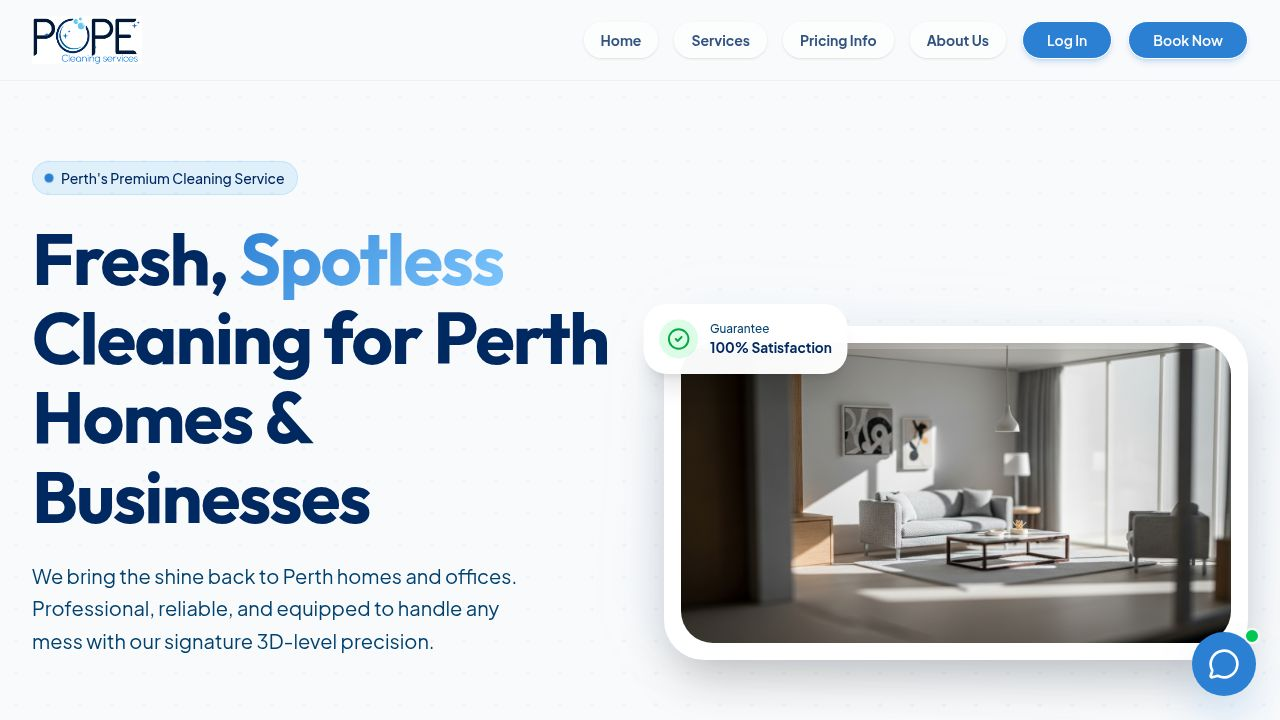
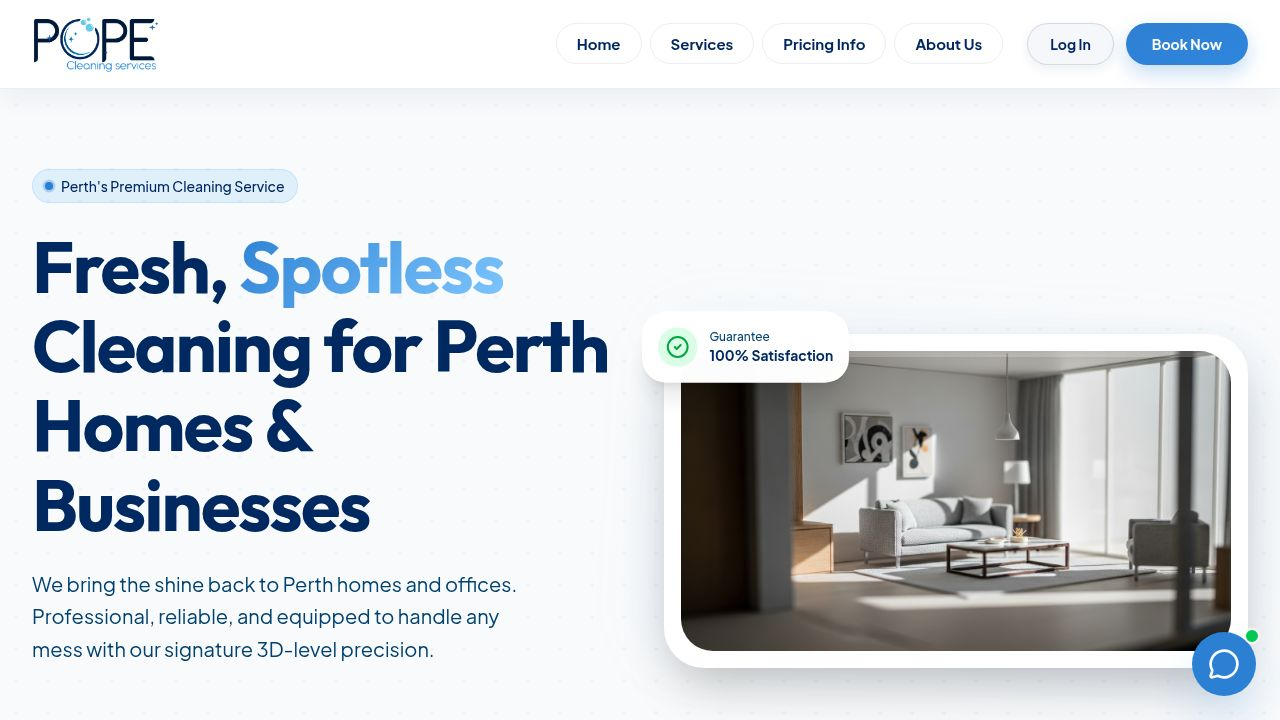
Improve the website's navigation bar with a more professional design
Update the navbar styling to include a glassmorphism effect, refine navigation links, and create a clearer hierarchy between the "Log In" and "Book Now" buttons.

Replit-Commit-Author: Agent
Replit-Commit-Session-Id: c2e9cad2-ba4b-4cb4-9b21-828524429beb
Replit-Commit-Checkpoint-Type: full_checkpoint
Replit-Commit-Event-Id: 8f09a461-0033-4815-b740-64738e7c53f6
Replit-Commit-Screenshot-Url: https://storage.googleapis.com/screenshot-production-us-central1/b344bfab-6f91-421f-94c6-48e3dd77e76f/c2e9cad2-ba4b-4cb4-9b21-828524429beb/GSzIXTW
Replit-Helium-Checkpoint-Created: true

diff --git a/client/src/components/layout/navbar.tsx b/client/src/components/layout/navbar.tsx
@@ -5,11 +5,11 @@ import { businessInfo } from "@/config/businessInfo";
 
 export function Navbar() {
   return (
-    <nav className="sticky top-0 z-50 w-full bg-background/80 backdrop-blur-md border-b border-border/50">
-      <div className="container mx-auto px-4 sm:px-6 lg:px-8 h-20 flex items-center justify-between">
+    <nav className="sticky top-0 z-50 w-full bg-[rgba(255,255,255,0.88)] backdrop-blur-[12px] border-b border-[#00275F]/[0.08] shadow-[0_8px_24px_rgba(0,39,95,0.06)]">
+      <div className="container mx-auto px-4 sm:px-6 lg:px-8 h-[88px] flex items-center justify-between">
         <Link href="/">
           <a className="flex items-center gap-2 group">
-            <div className="h-12 flex items-center justify-center transform group-hover:scale-105 transition-transform duration-300">
+            <div className="h-14 flex items-center justify-center transform group-hover:scale-105 transition-transform duration-200 ease-out">
               <img 
                 src="/assets/brand/pope-cleaning-logo.png" 
                 alt="Pope Cleaning Services logo" 
@@ -19,32 +19,45 @@ export function Navbar() {
                   (e.target as HTMLImageElement).nextElementSibling?.classList.remove('hidden');
                 }}
               />
-              <div className="hidden h-full aspect-square bg-primary flex items-center justify-center text-primary-foreground rounded-xl">
+              <div className="hidden h-full aspect-square bg-[#2F7FD1] flex items-center justify-center text-white rounded-xl">
                 <span className="font-display font-bold text-xl">P</span>
               </div>
             </div>
           </a>
         </Link>
         
-        <div className="hidden md:flex items-center gap-4">
-          <Link href="/"><a className="text-sm font-bold text-secondary/80 bg-white/40 backdrop-blur-md border border-white/60 px-4 py-2 rounded-full shadow-sm hover:shadow-md hover:bg-white hover:text-primary hover:scale-105 hover:border-primary/20 transition-all cursor-pointer">Home</a></Link>
-          <Link href="/services"><a className="text-sm font-bold text-secondary/80 bg-white/40 backdrop-blur-md border border-white/60 px-4 py-2 rounded-full shadow-sm hover:shadow-md hover:bg-white hover:text-primary hover:scale-105 hover:border-primary/20 transition-all cursor-pointer">Services</a></Link>
-          <Link href="/pricing"><a className="text-sm font-bold text-secondary/80 bg-white/40 backdrop-blur-md border border-white/60 px-4 py-2 rounded-full shadow-sm hover:shadow-md hover:bg-white hover:text-primary hover:scale-105 hover:border-primary/20 transition-all cursor-pointer">Pricing Info</a></Link>
-          <Link href="/about"><a className="text-sm font-bold text-secondary/80 bg-white/40 backdrop-blur-md border border-white/60 px-4 py-2 rounded-full shadow-sm hover:shadow-md hover:bg-white hover:text-primary hover:scale-105 hover:border-primary/20 transition-all cursor-pointer">About Us</a></Link>
-          <Link href="/auth/login">
-            <Button className="rounded-full px-6 py-2 h-auto font-semibold shadow-md shadow-primary/20 hover:shadow-primary/40 transition-all cursor-pointer">
-              Log In
-            </Button>
-          </Link>
-          <Link href="/book">
-            <Button className="rounded-full px-6 py-2 h-auto font-semibold shadow-md shadow-primary/20 hover:shadow-primary/40 transition-all cursor-pointer">
-              Book Now
-            </Button>
-          </Link>
+        <div className="hidden md:flex items-center">
+          {/* Navigation Links */}
+          <div className="flex items-center gap-2 mr-6">
+            <Link href="/"><a className="text-[#00275F] text-[15px] font-bold bg-[rgba(255,255,255,0.75)] border border-[#00275F]/[0.08] px-[20px] py-[10px] rounded-full hover:bg-[#EAF5FF] hover:text-[#00275F] hover:border-[#2F7FD1]/25 hover:-translate-y-[1px] hover:shadow-[0_4px_12px_rgba(0,39,95,0.04)] transition-all duration-200 ease-out cursor-pointer">Home</a></Link>
+            <Link href="/services"><a className="text-[#00275F] text-[15px] font-bold bg-[rgba(255,255,255,0.75)] border border-[#00275F]/[0.08] px-[20px] py-[10px] rounded-full hover:bg-[#EAF5FF] hover:text-[#00275F] hover:border-[#2F7FD1]/25 hover:-translate-y-[1px] hover:shadow-[0_4px_12px_rgba(0,39,95,0.04)] transition-all duration-200 ease-out cursor-pointer">Services</a></Link>
+            <Link href="/pricing"><a className="text-[#00275F] text-[15px] font-bold bg-[rgba(255,255,255,0.75)] border border-[#00275F]/[0.08] px-[20px] py-[10px] rounded-full hover:bg-[#EAF5FF] hover:text-[#00275F] hover:border-[#2F7FD1]/25 hover:-translate-y-[1px] hover:shadow-[0_4px_12px_rgba(0,39,95,0.04)] transition-all duration-200 ease-out cursor-pointer">Pricing Info</a></Link>
+            <Link href="/about"><a className="text-[#00275F] text-[15px] font-bold bg-[rgba(255,255,255,0.75)] border border-[#00275F]/[0.08] px-[20px] py-[10px] rounded-full hover:bg-[#EAF5FF] hover:text-[#00275F] hover:border-[#2F7FD1]/25 hover:-translate-y-[1px] hover:shadow-[0_4px_12px_rgba(0,39,95,0.04)] transition-all duration-200 ease-out cursor-pointer">About Us</a></Link>
+          </div>
+
+          {/* Action Buttons */}
+          <div className="flex items-center gap-3">
+            <Link href="/auth/login">
+              <Button 
+                variant="outline"
+                className="bg-[#F5F7FA] text-[#00275F] border-[#00275F]/[0.14] rounded-full px-[22px] h-[42px] font-bold shadow-[0_4px_12px_rgba(0,39,95,0.08)] hover:bg-[#EAF5FF] hover:border-[#2F7FD1] hover:text-[#00275F] hover:-translate-y-[1px] transition-all duration-200 ease-out cursor-pointer focus-visible:ring-2 focus-visible:ring-[#2F7FD1]/50"
+              >
+                Log In
+              </Button>
+            </Link>
+            <Link href="/book">
+              <Button 
+                className="bg-gradient-to-br from-[#2F7FD1] to-[#2E86DE] text-white border-none rounded-full px-[26px] h-[42px] font-bold shadow-[0_8px_20px_rgba(47,127,209,0.28)] hover:from-[#1F6FC0] hover:to-[#2F7FD1] hover:-translate-y-[2px] hover:shadow-[0_12px_28px_rgba(47,127,209,0.34)] active:translate-y-0 active:shadow-[0_4px_12px_rgba(47,127,209,0.2)] transition-all duration-200 ease-out cursor-pointer focus-visible:ring-2 focus-visible:ring-[#2F7FD1]/50"
+              >
+                Book Now
+              </Button>
+            </Link>
+          </div>
         </div>
 
-        <Button variant="ghost" size="icon" className="md:hidden">
-          <Menu className="w-6 h-6 text-secondary" />
+        {/* Mobile Menu Toggle */}
+        <Button variant="ghost" size="icon" className="md:hidden text-[#00275F]">
+          <Menu className="w-6 h-6" />
         </Button>
       </div>
     </nav>
